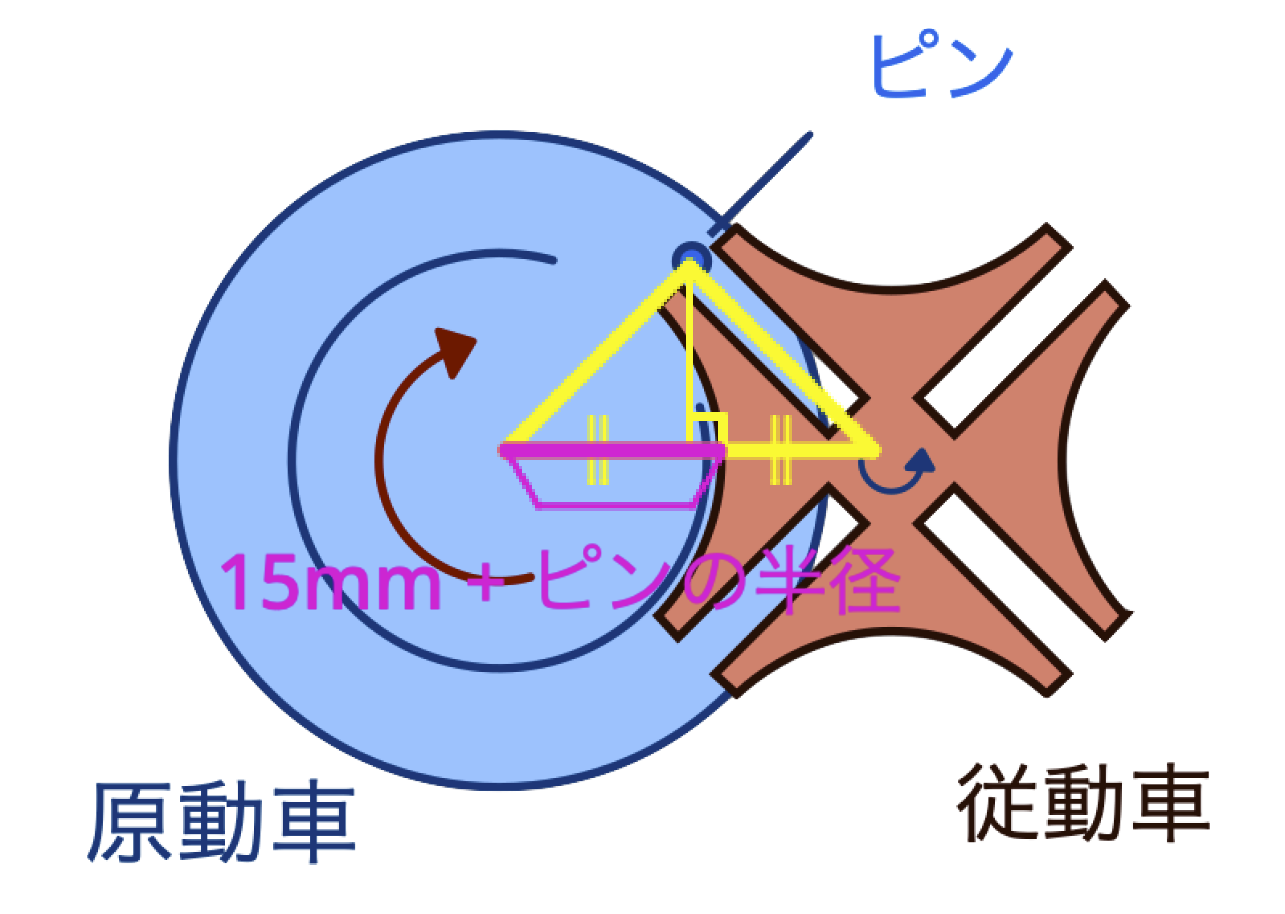
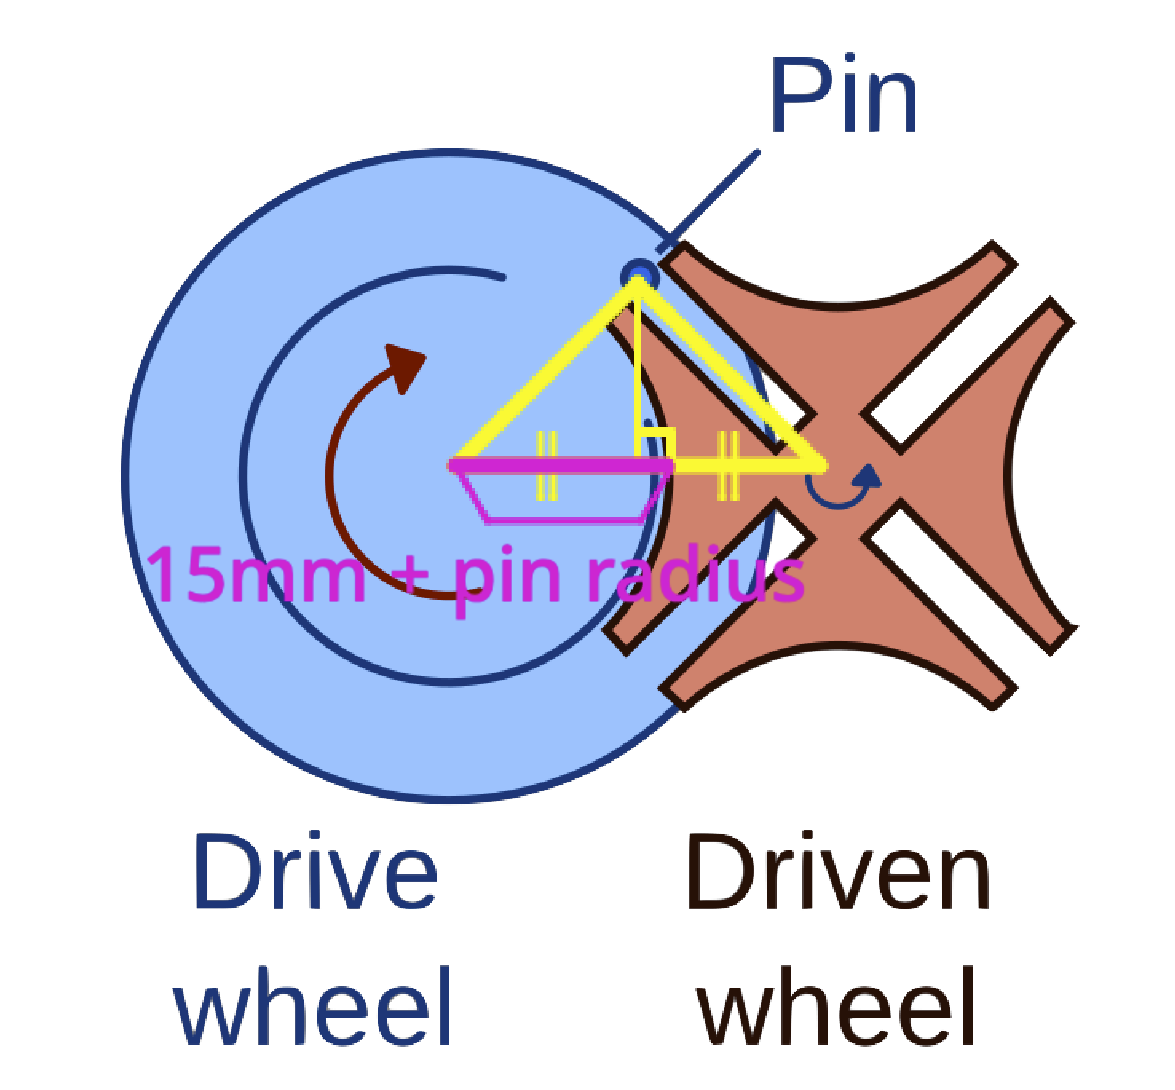
modified:   slides.md

Changed region(s): [[0.0613, 0.1225, 0.9498, 0.9803], [0.6434, 0.0306, 0.7966, 0.1225], [0.6128, 0.1225, 0.6434, 0.1838]]

diff --git a/slides.md b/slides.md
@@ -31,7 +31,7 @@ Let’s create a 3D model of a Geneva drive using Codeblocks in Tinkercad.
 layout: two-cols
 ---
 
-# ジェネバ機構の各部品
+# Parts of the Geneva Drive
 
 <div class="flex justify-center">
 　　<img src="/geneva_drive_overview.png">
@@ -42,225 +42,225 @@ layout: two-cols
 
 <div style="margin-top:100px">
 
-- 原動車(連続回転する部分)
-- 従動車(断続的に回転する部分)
-- 台
+- Drive Wheel (continuously rotating part)
+- Driven Wheel (intermittently rotating part)
+- Stand
 
-の3つのパーツを作っていきます。
+Let's create these three parts.
 </div>
 
 ---
 
-# 初期設定
+# Initial Setup
 
-スロットが4つのジェネバ機構をつくっていきます。
+We'll start by creating a Geneva drive with four slots.
 
-各パーツの主要な部分の長さを、初期化の処理で以下のように設定します。
+Let’s set the main dimensions of each part in the initialization process as follows:
 
 <div class="flex justify-center">
-　　<img src="/initialization.png">
+　　<img src="/initialization.png" style="width: 80%">
 </div>
 
 ---
 
-# 原動車と従動車の位置関係
+# Positioning the Drive and Driven Wheels
 
-原動車や従動車の位置関係を見ていきます。
+Let’s look at the relative positions of the drive and driven wheels.
 
-スロットが4つの場合、原動車のピンが従動車と接したとき、原動車の中心・ピン・従動車の中心の3点を結んだ三角形は、直角以外の角度がそれぞれ45度(180 / 4 = 45 なので)の二等辺直角三角形になります。
+With a four-slot design, when the drive wheel’s pin engages the driven wheel, the triangle formed by the centers of the drive wheel, the pin, and the driven wheel's center is an isosceles right triangle with the other angles being 45 degrees each (180 / 4 = 45).
 
 <div class="flex justify-center">
 　　<img src="/geneva_drive.png" style="width: 50%">
 </div>
 
-<small>次の画像を元にリミックス: ジェネバ機構. (2023, August 28). In Wikipedia. https://ja.wikipedia.org/wiki/%E3%82%B8%E3%82%A7%E3%83%8D%E3%83%90%E6%A9%9F%E6%A7%8B</small>
+<small>Remixed based on the next image: Geneva drive. (2024, July 31). In Wikipedia. https://en.wikipedia.org/wiki/Geneva_drive</small>
 ---
 
-# 原動車下部の半径
+# Radius of the Bottom Part of the Drive Wheel
 
-原動車と従動車との中心間の距離が30mmのとき、ピンが位置する原動車下部の半径は30/√2です。(原動車下部半径 : 中心間の距離 の比率が 1:√2 なので)
+When the distance between the centers of the drive and driven wheels is 30mm, the radius at the bottom part of the drive wheel where the pin is located is 30/√2 (since the ratio of the bottom radius to the center distance is 1 : √2) mm.
 
 <div class="flex justify-center">
 　　<img src="/drive_wheel_bottom_radius.png" style="width: 50%">
 </div>
 
-<small>次の画像を元にリミックス: ジェネバ機構. (2023, August 28). In Wikipedia. https://ja.wikipedia.org/wiki/%E3%82%B8%E3%82%A7%E3%83%8D%E3%83%90%E6%A9%9F%E6%A7%8B</small>
+<small>Remixed based on the next image: Geneva drive. (2024, July 31). In Wikipedia. https://en.wikipedia.org/wiki/Geneva_drive</small>
 ---
 
-# 従動車の半径
+# Radius of the Driven Wheel
 
-原動車と従動車との中心間の距離が30mmのとき、従動車の半径も30/√2です。(従動車の半径 : 中心間の距離 の比率が 1:√2 なので)
-
+When the distance between the centers of the drive and driven wheels is 30mm, the radius of the driven wheel is also 30/√2 (since the ratio of the driven wheel's radius to the center distance is 1 : √2) mm.
 
 <div class="flex justify-center">
 　　<img src="/driven_wheel_radius.png" style="width: 50%">
 </div>
 
-<small>次の画像を元にリミックス: ジェネバ機構. (2023, August 28). In Wikipedia. https://ja.wikipedia.org/wiki/%E3%82%B8%E3%82%A7%E3%83%8D%E3%83%90%E6%A9%9F%E6%A7%8B</small>
+<small>Remixed based on the next image: Geneva drive. (2024, July 31). In Wikipedia. https://en.wikipedia.org/wiki/Geneva_drive</small>
 ---
 
-# 原動車上部の半径
+# Radius of the Top Part of the Drive Wheel
 
-原動車の中心と従動車の中心とを結んだ直線に、ピンから垂線を下ろし、ピンの半径を足した地点が原動車上部の半径にあたります。
+The radius at the top part of the drive wheel is determined by drawing a perpendicular from the pin to the line connecting the centers of the drive and driven wheels, adding the radius of the pin.
 
-90度、45度、45度の直角三角形の場合、この長さは一番長い辺の半分とピンの半径を足した値になり、15mm + ピンの半径 になります。
+In the case of a right triangle with angles of 90, 45, and 45 degrees, this length is half of the longest side plus the radius of the pin, resulting in 15mm + 'pin radius'.
 
 <div class="flex justify-center">
-　　<img src="/drive_wheel_top_radius.png" style="width: 40%">
+　　<img src="/drive_wheel_top_radius.png" style="width: 30%">
 </div>
 
-<small>次の画像を元にリミックス: ジェネバ機構. (2023, August 28). In Wikipedia. https://ja.wikipedia.org/wiki/%E3%82%B8%E3%82%A7%E3%83%8D%E3%83%90%E6%A9%9F%E6%A7%8B</small>
+<small>Remixed based on the next image: Geneva drive. (2024, July 31). In Wikipedia. https://en.wikipedia.org/wiki/Geneva_drive</small>
 ---
 
-# 初期設定
+# Review the Initial Setup
 
-以上の各パーツの位置関係をもとに、初期化の処理をもう一度確認しましょう。
+Let's review the initial setup process once more based on the relative positions of each part.
 
-Tinkercadの「+ 作成」ボタンをクリックし、コードブロックを選んで以下の初期化の処理をつくります。
-
-<div class="flex justify-center">
-　　<img src="/initialization.png">
-</div>
-
----
-
-# 原動車上部をつくる
-
-次に原動車の上の部分をつくります。
-
-「原動車上部の半径」を半径とする円形部分をつくり、「中心間の距離(30mm)」だけ離した「従動車の半径」 + 「マージン」の半径の円形部分で切り取ります。そのあと、高さ5mmまで持ち上げます。
+Click the '+ Create' button in Tinkercad, select 'Codeblocks' and create the following initialization process.
 
 <div class="flex justify-center">
-　　<img src="/drive_wheel_top.gif">
+　　<img src="/initialization.png" style="width: 80%">
 </div>
 
 ---
 
-# 原動車下部をつくる
+# Creating the Top Part of the Drive Wheel
 
-次に原動車の下の部分をつくります。
+Next, let's create the top part of the drive wheel.
 
-「原動車下部の半径」を半径とする円形部分をつくり、「原動車下部の半径」離した場所に「ピンの半径」を半径とした円柱をつくります。それぞれ高さ0mm(底面)に持ち上げます。（何も指定しないと各オブジェクトは底面を中心として作成されるので）
+Create a circular section with a radius of 'drive wheel top radius' and subtract a circular section with a radius of 'driven wheel radius' + 'margin' separated by the distance of 'centers distance(30mm)', then lift it up to a height of 5mm.
 
 <div class="flex justify-center">
-　　<img src="/drive_wheel_bottom.gif" style="width: 80%">
+　　<img src="/drive_wheel_top.gif" style="width: 70%">
 </div>
 
 ---
 
-# 原動車の中心に穴をあける
+# Creating the Bottom Part of the Drive Wheel
 
-原動車の中心に「軸の半径」+「マージン」/2 を半径とする穴をあけます。
+Next, let's create the bottom part of the drive wheel.
 
-このあと従動車をつくるので、邪魔にならないように「従動車の半径」+「マージン」だけ横に移動してよけておきます。
+Create a circular section with a radius of 'drive wheel bottom radius', and at a distance equal to the 'drive wheel bottom radius', create a cylinder with a radius of 'pin radius'. Both are lifted to a height of 0mm (base).
 
 <div class="flex justify-center">
-　　<img src="/drive_wheel_center.gif">
+　　<img src="/drive_wheel_bottom.gif" style="width: 70%">
 </div>
 
 ---
 
-# 従動車の円形部分のスロット(穴)をつくる
+# Creating a Hole at the Center of the Drive Wheel
 
-これから従動車をつくっていきます。
+Create a hole in the center of the drive wheel with a radius of 'center pin radius' + ('margin' / 2).
 
-はじめに「中心間の距離」+「原動車上部の半径」+「マージン」の大きな円盤をつくり、邪魔にならないよう底面より下に沈めます。つぎに「原動車上部の半径」+「マージン」を半径とする円盤を4つ十字状にならべます。大きな円盤をあらかじめつくったのは、小さな円盤を（それ自体の中心ではなく）原点を中心として回転させたかったからです。
+Then, to avoid interference, move the driven wheel sideways by the 'driven wheel radius' + 'margin'.
 
 <div class="flex justify-center">
-　　<img src="/driven_wheel_round_slots.gif" style="width: 80%">
+　　<img src="/drive_wheel_center.gif" style="width: 70%">
 </div>
 
 ---
 
-# 従動車の直方体のスロット(穴)をつくる
+# Creating the Circular Slots (Holes) of the Driven Wheel
 
-次に直方体のスロット(穴)をつくります。
+Now, let's create the driven wheel.
 
-横幅が「原動車下部の半径」+「ピンの半径」+「マージン」、縦幅が「ピンの半径」x 2 + 「マージン」(ピンが入るように)の直方体を4つ、これらも十字状にならべます。最後にまとめてグループ化し、穴に変換します。
+First, create a large disc with a radius of 'centers distance' + 'drive wheel top radius' + 'margin', submerged below the base so that it does does not interfere with the creation of other parts. Next, arrange four small discs in a cross shape with a radius of 'drive wheel top radius' + 'margin'. The large disc was created first to allow the small discs to rotate around the origin, not their centers.
 
 <div class="flex justify-center">
-　　<img src="/driven_wheel_box_slots.gif">
+　　<img src="/driven_wheel_round_slots.gif" style="width: 50%">
 </div>
 
 ---
 
-# 従動車(本体)をつくる
+# Creating the Rectangular Slots (Holes) of the Driven Wheel
 
-次に従動車の本体をつくります。
+Next, create rectangular slots (holes).
 
-「従動車の半径」を半径として円盤をつくり、円形と直方体を組み合わせてつくった穴で切り取ります。そのあと、高さ5mmまで持ち上げます。
+Arrange 4 rectangles with a width of 'drive wheel bottom radius' + 'pin radius' + 'margin' and a height of 'pin radius' x 2 + 'margin'(to fit the pin) in a cross shape. Finally, group them together and convert to a Hole.
 
 <div class="flex justify-center">
-　　<img src="/driven_wheel.gif" style="width: 90%">
+　　<img src="/driven_wheel_box_slots.gif" style="width: 65%">
 </div>
 
 ---
 
-# 従動車の下の部分をつくり、中心に穴をあける
+# Creating the Body of the Driven Wheel
 
-直方体の穴の部分と重ならないぎりぎりのところまでを占める円柱を、従動車の下の部分につくります。
+Next, let's create the body of the driven wheel.
 
-「中心間の距離」- (「原動車下部の半径」+「ピンの半径」+「マージン」)が半径の長さです。次に、従動車の中心に「軸の半径」+「マージン」/2 を半径とする穴をあけます。最後に、3Dプリンターで出力しやすいように大きな部分が底面にくるように反転しています。
+Create a disc with a radius of 'driven wheel radius', and cut out using the combination of circular and rectangular slots created earlier. Then, lift it up to a height of 5mm.
 
 <div class="flex justify-center">
-　　<img src="/driven_wheel_center.gif">
+　　<img src="/driven_wheel.gif" style="width: 70%">
 </div>
 
 ---
 
-# 台をつくる
+# Creating the Bottom Part of the Driven Wheel and Making a Hole in the Center
 
-原動車と従動車が乗るように横幅が「原動車下部の半径」+「中心間の距離」+「従動車」、縦が 「原動車下部の半径」x 2 の長さの台をつくります。「軸の半径」を半径とする円柱をつくり、原動車の中心と従動車の中心の部分に立てます。最後に原動車あるいは従動車と重ならないように縦方向にずらしています。
+Create a cylinder occupying the space up to just before overlapping with the rectangular slots at the bottom of the driven wheel.
+
+The radius of this cylinder is 'centers distance' - ('drive wheel bottom radius' + 'pin radius' + 'margin'). Next, make a hole in the center of the driven wheel with a radius of 'center pin radius' + ('margin' / 2). Finally, invert it for easier 3D printing so that the larger part faces the base.
 
 <div class="flex justify-center">
-　　<img src="/stand.gif">
+　　<img src="/driven_wheel_center.gif" style="width: 55%">
 </div>
 
 ---
 
-# まとめ
+# Creating the Stand
 
-それぞれのパーツはテンプレートの機能を使い、各テンプレートに定義しています。
-
-最後に全部のテンプレートを順番に呼び出しています。
+Create a Stand with a width of 'drive wheel bottom radius' + 'centers distance' + 'driven wheel radius' and a length of 'drive wheel bottom radius' x 2. Create a cylinders with a radius of 'center pin radius' and position them at the centers of the drive and driven wheels. Finally, shift it vertically to avoid overlapping with the drive or driven wheels.
 
 <div class="flex justify-center">
-　　<img src="/templates.png" style="width: 70%;">
+　　<img src="/stand.gif" style="width: 70%">
 </div>
 
 ---
 
-# 3Dモデルでプリント
+# Summary
 
-STLファイルとしてエクスポートすれば、3Dプリンターで出力することができます。
+Each part is created using the Template feature, with each template defined.
+
+Finally, all templates are called in sequence.
+
+<div class="flex justify-center">
+　　<img src="/templates.png" style="width: 40%;">
+</div>
+
+---
+
+# 3D Printing the Model
+
+If you export as an STL file, you can print it with a 3D printer.
 
 <iframe style="margin: 0 auto;" width="203" height="362" src="https://www.youtube.com/embed/Ud-0BkLBQJY" title="geneva drive(4 slots)" frameborder="0" allow="accelerometer; autoplay; clipboard-write; encrypted-media; gyroscope; picture-in-picture; web-share" referrerpolicy="strict-origin-when-cross-origin" allowfullscreen></iframe>
 
 
 ---
 
-# Tinkercad のリンク
+# Tinkercad Link
 
-紹介したTinkercadコードブロックのコードは以下のリンク先で公開しているので、ご自由にお使いください。
+The code for the Tinkercad codeblock introduced here is available at the following link for you to use freely:
 
-- [4スロットジェネバ機構](https://www.tinkercad.com/codeblocks/ciX5umKiYkE-4)
+- [n slots Geneva drive(Codeblocks)](https://www.tinkercad.com/codeblocks/bJDl1VqaENx-n-slots-geneva-drivecodeblocks)
 
 ---
 
-# 参考リンク
+# Reference Links
 
-- https://ja.wikipedia.org/wiki/%E3%82%B8%E3%82%A7%E3%83%8D%E3%83%90%E6%A9%9F%E6%A7%8B
-- [機械式時計のために開発された「ゼネバ機構」とは](https://monoist.itmedia.co.jp/mn/articles/2007/10/news013.html)
-- [Inventor / ゼネバ機構｜オクターブ・ラボ](https://note.com/yo420186/n/n914aca93dc2b)
+- https://en.wikipedia.org/wiki/Geneva_drive
 - [Make Geneva Wheels of Any Size in a Easier Way](https://www.instructables.com/Make-Geneva-Wheels-of-Any-Size-in-a-Easier-Way/)
+- [機械式時計のために開発された「ゼネバ機構」とは (Japanese)](https://monoist.itmedia.co.jp/mn/articles/2007/10/news013.html)
+- [Inventor / ゼネバ機構｜オクターブ・ラボ (Japanese)](https://note.com/yo420186/n/n914aca93dc2b)
 
 ---
 layout: center
 ---
 
-<a href="https://creativecommons.org/licenses/by-sa/4.0/deed.ja"><img src="/by-sa.webp" style="width: 10%"></a>
-この文書は[CC BY-SA 4.0](https://creativecommons.org/licenses/by-sa/4.0/deed.ja)にしたがって公開します。
+<a href="https://creativecommons.org/licenses/by-sa/4.0/deed.en"><img src="/by-sa.webp" style="width: 10%"></a>
 
-Markdown形式だけで書ける[Slidev](https://ja.sli.dev/)というツールを使って作っており、GitHub(https://github.com/champierre/geneva-drive)でソースを公開しています。
+This document is published under [CC BY-SA 4.0](https://creativecommons.org/licenses/by-sa/4.0/deed.en).
 
-リミックス、間違いの指摘、改善提案など歓迎します。
+This slide is created using [Slidev](https://sli.dev/), and the source code is available on GitHub(https://github.com/champierre/geneva-drive-en).
+
+Remixes, corrections, and suggestions for improvement are welcome.

diff --git a/README.md b/README.md
@@ -1,32 +1,33 @@
-# ジェネバ機構をTinkercadでプログラミングしてつくろう！
+# Let's Program and create a Geneva Drive in Tinkercad!
 
-**[ジェネバ機構をTinkercadでプログラミングしてつくろう！](https://champierre.github.io/geneva-drive/)**
+**[Let's Program and create a Geneva Drive in Tinkercad!](https://champierre.github.io/geneva-drive-en/)**
 
-ジェネバ機構は、連続で回転する運動を、少しずつ断続的に回転する運動に変えることができる機構です。
+A Geneva drive is a mechanism that can convert continuous rotational motion into intermittent rotational motion.
 
-このスライドでは、ジェネバ機構の3Dモデルを、Tinkercadのコードブロックを使い、プログラミングしてつくる方法を紹介しています。
+This slide presents a method to program and create a 3D model of a Geneva drive using Tinkercad codeblock.
 
-![geneva-drive-demo-short](https://champierre.github.io/geneva-drive/geneva_drive_demo_short.gif)
+![geneva-drive-demo-short](https://champierre.github.io/geneva-drive-en/geneva_drive_demo_short.gif)
 
-STLファイルとしてエクスポートすれば、3Dプリンターで出力することができます。
+Once exported as an STL file, it can be printed using a 3D printer.
 
 <a href="https://youtube.com/shorts/Ud-0BkLBQJY"><img src="https://champierre.github.io/geneva-drive/geneva_drive.jpg" style="width: 300px;"></a>
 
-<a href="https://creativecommons.org/licenses/by-sa/4.0/deed.ja"><img src="https://champierre.github.io/geneva-drive/by-sa.webp" style="width: 10%"></a>
-[CC BY-SA 4.0](https://creativecommons.org/licenses/by-sa/4.0/deed.ja)にしたがって公開します。
+<a href="https://creativecommons.org/licenses/by-sa/4.0/deed.en"><img src="https://champierre.github.io/geneva-drive/by-sa.webp" style="width: 10%"></a>
 
-リミックス、間違いの指摘、改善提案など歓迎します。
+Published under [CC BY-SA 4.0](https://creativecommons.org/licenses/by-sa/4.0/deed.en).
 
-## 自分のマシンでスライドを開くには
+Remixes, corrections, and suggestions for improvement are welcome.
+
+## To Open the Slides on Your Own Machine
 
 ```
-git clone git@github.com:champierre/geneva-drive.git
+git clone git@github.com:champierre/geneva-drive-en.git
 npm install
 npm run dev
 ```
 
-を実行し、http://localhost:3030 をブラウザで開く。
+Run the above commands and open http://localhost:3030 in your browser.
 
-slides.md がスライドの中身です。
+The content of the slides can be found in slides.md.
 
-Slidevについては[documentations](https://sli.dev/)を参考にしてください。
+For more information on Slidev, refer to the [documentation](https://sli.dev/).
